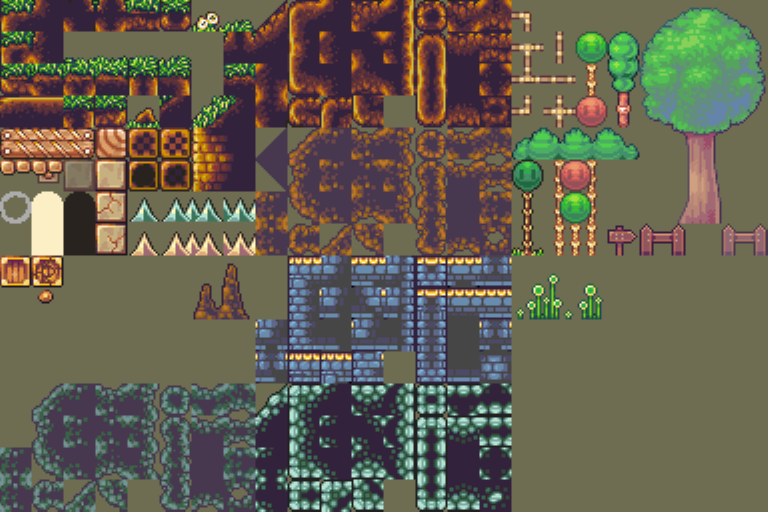
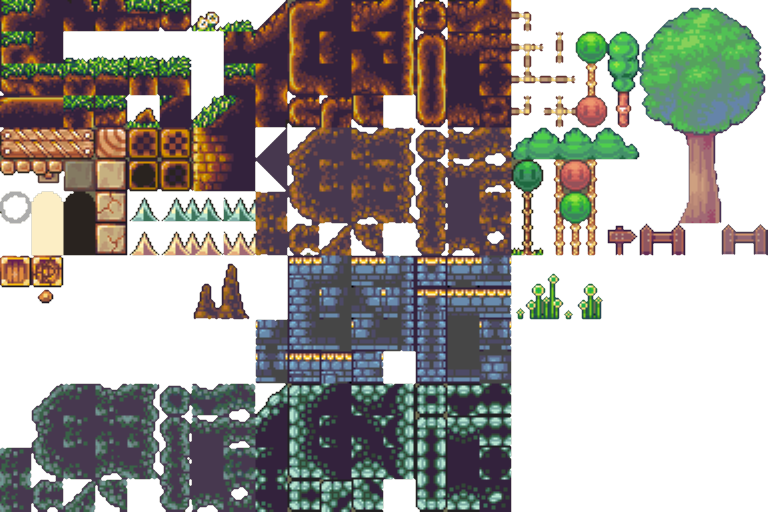
fixed tile transparency and elevator collision

diff --git a/js/states/Play.js b/js/states/Play.js
@@ -91,8 +91,8 @@ Play.prototype = {
         }
 
         // Collision check between platforms and characters
-        // game.physics.arcade.collide(platforms, [this.child, minions, this.enemyy]);
-        // game.physics.arcade.collide(platforms, [this.player, minions, this.enemyy]);
+        game.physics.arcade.collide(platforms, [this.child, minions, this.enemyy]);
+        game.physics.arcade.collide(platforms, [this.player, minions, this.enemyy]);
 
         game.physics.arcade.collide([this.child, minions, this.enemyy], this.mapLayer);
         game.physics.arcade.collide([this.player, minions, this.enemyy], this.mapLayer);
